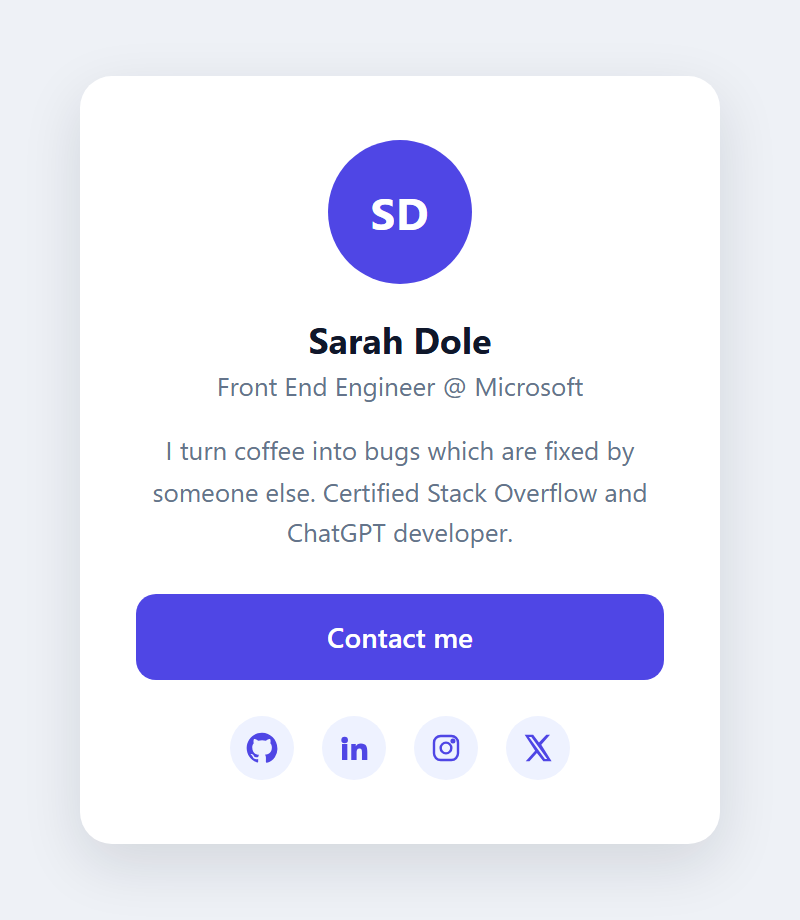
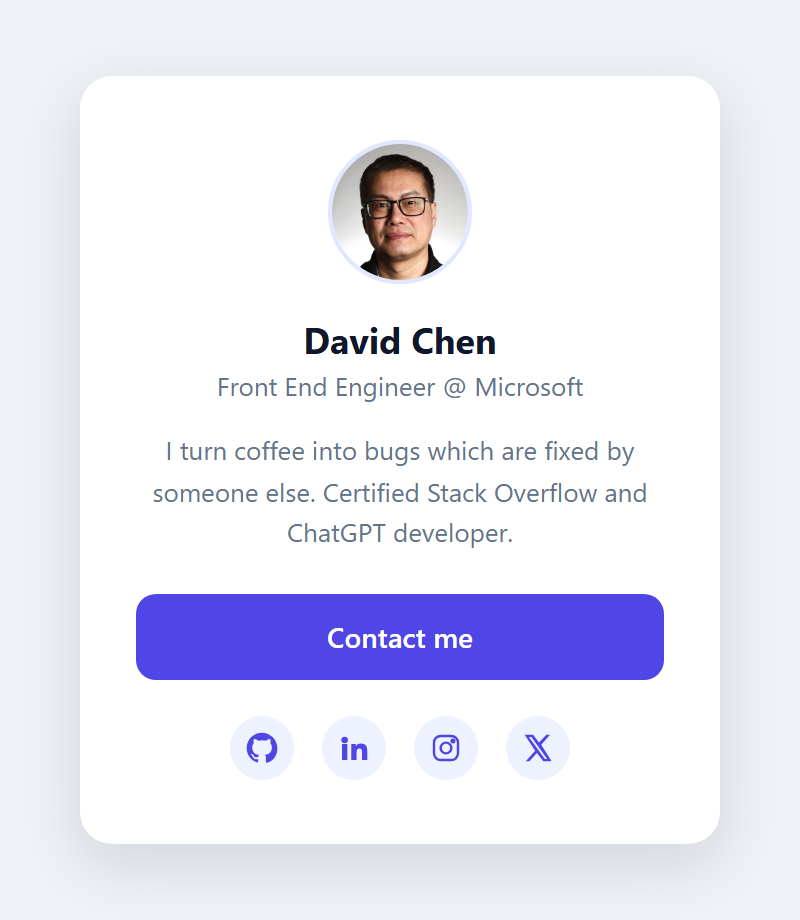
feat(53): add real profile photo to Profile Card; fix regression in link-navigation guard
Added a real profile photo to the Profile Card challenge (avatar was
plain initials before). The supplied photo was of a man but the card's
persona ("Sarah Dole") was written as a woman, and the photo reads as a
genuine individual's real headshot rather than generic stock/model
photography — confirmed the approach with the user before proceeding.
Kept the exact photo, renamed the persona to "David Chen" to match.
Photo cropped to a square headshot via sharp, self-hosted under
public/playground/battles/ like every other asset in this feature.

Also corrects a real regression in the previous fix for the challenge-
iframe navigation leak: <base href="about:blank"> stopped anchor
navigation but also broke every other relative URL in the document,
including the new photo's <img src="...">. Replaced it with a capture-
phase click listener in buildBattleDoc() that specifically
preventDefaults clicks on <a> elements — same navigation-leak
protection, without affecting how images or any other asset resolves.
The per-anchor onclick attributes from the previous fix are removed as
redundant now that the guard is centralized.

Verified via Playwright: photo loads correctly in both the compare
pane and the regenerated list-page thumbnail; all 4 social links still
cause zero iframe navigation; the 21-check auth regression suite still
passes 21/21; tsc/eslint clean.

Changed region(s): [[0.4062, 0.1522, 0.5938, 0.3043], [0.375, 0.3348, 0.625, 0.3957]]

diff --git a/scripts/seed/uiBattles.ts b/scripts/seed/uiBattles.ts
@@ -230,16 +230,16 @@ document.getElementById("signin").addEventListener("click", function () {
     targetWidth: 400,
     targetHeight: 460,
     targetHtml: `<div class="card">
-  <div class="avatar">SD</div>
-  <h1 class="name">Sarah Dole</h1>
+  <img class="avatar" src="/playground/battles/profile-card-avatar.jpg" alt="David Chen" />
+  <h1 class="name">David Chen</h1>
   <p class="role">Front End Engineer @ Microsoft</p>
   <p class="bio">I turn coffee into bugs which are fixed by someone else. Certified Stack Overflow and ChatGPT developer.</p>
   <button id="contact" class="contact">Contact me</button>
   <div class="socials">
-    <a href="#" class="social" aria-label="GitHub" onclick="event.preventDefault()"><svg viewBox="0 0 24 24" fill="currentColor"><path d="M12 .5C5.73.5.5 5.73.5 12c0 5.09 3.29 9.4 7.86 10.93.57.1.78-.25.78-.55 0-.27-.01-1.16-.02-2.1-3.2.7-3.88-1.36-3.88-1.36-.52-1.33-1.28-1.69-1.28-1.69-1.05-.72.08-.7.08-.7 1.16.08 1.77 1.19 1.77 1.19 1.03 1.76 2.7 1.25 3.36.96.1-.75.4-1.25.73-1.54-2.55-.29-5.23-1.28-5.23-5.68 0-1.25.45-2.28 1.19-3.08-.12-.29-.52-1.46.11-3.05 0 0 .97-.31 3.18 1.18a11 11 0 0 1 5.79 0c2.2-1.49 3.17-1.18 3.17-1.18.64 1.59.24 2.76.12 3.05.74.8 1.19 1.83 1.19 3.08 0 4.41-2.69 5.38-5.25 5.67.41.36.78 1.08.78 2.18 0 1.57-.01 2.84-.01 3.23 0 .3.2.66.79.55A10.51 10.51 0 0 0 23.5 12C23.5 5.73 18.27.5 12 .5Z"/></svg></a>
-    <a href="#" class="social" aria-label="LinkedIn" onclick="event.preventDefault()"><svg viewBox="0 0 24 24" fill="currentColor"><path d="M4.98 3.5a2.5 2.5 0 1 1 0 5 2.5 2.5 0 0 1 0-5ZM3 9h4v12H3V9Zm6.5 0h3.83v1.64h.05c.53-1 1.84-2.06 3.79-2.06 4.06 0 4.81 2.67 4.81 6.15V21h-4v-5.6c0-1.34-.02-3.06-1.87-3.06-1.87 0-2.16 1.46-2.16 2.96V21h-4V9Z"/></svg></a>
-    <a href="#" class="social" aria-label="Instagram" onclick="event.preventDefault()"><svg viewBox="0 0 24 24" fill="none" stroke="currentColor" stroke-width="1.8"><rect x="3" y="3" width="18" height="18" rx="5"/><circle cx="12" cy="12" r="4"/><circle cx="17.2" cy="6.8" r="1"/></svg></a>
-    <a href="#" class="social" aria-label="X" onclick="event.preventDefault()"><svg viewBox="0 0 24 24" fill="currentColor"><path d="M18.24 2H21l-6.55 7.49L22.2 22h-6.19l-4.85-6.34L5.6 22H2.83l7.02-8.02L2 2h6.35l4.38 5.79L18.24 2Zm-1.08 18.17h1.72L7.02 3.75H5.17l12 16.42Z"/></svg></a>
+    <a href="#" class="social" aria-label="GitHub"><svg viewBox="0 0 24 24" fill="currentColor"><path d="M12 .5C5.73.5.5 5.73.5 12c0 5.09 3.29 9.4 7.86 10.93.57.1.78-.25.78-.55 0-.27-.01-1.16-.02-2.1-3.2.7-3.88-1.36-3.88-1.36-.52-1.33-1.28-1.69-1.28-1.69-1.05-.72.08-.7.08-.7 1.16.08 1.77 1.19 1.77 1.19 1.03 1.76 2.7 1.25 3.36.96.1-.75.4-1.25.73-1.54-2.55-.29-5.23-1.28-5.23-5.68 0-1.25.45-2.28 1.19-3.08-.12-.29-.52-1.46.11-3.05 0 0 .97-.31 3.18 1.18a11 11 0 0 1 5.79 0c2.2-1.49 3.17-1.18 3.17-1.18.64 1.59.24 2.76.12 3.05.74.8 1.19 1.83 1.19 3.08 0 4.41-2.69 5.38-5.25 5.67.41.36.78 1.08.78 2.18 0 1.57-.01 2.84-.01 3.23 0 .3.2.66.79.55A10.51 10.51 0 0 0 23.5 12C23.5 5.73 18.27.5 12 .5Z"/></svg></a>
+    <a href="#" class="social" aria-label="LinkedIn"><svg viewBox="0 0 24 24" fill="currentColor"><path d="M4.98 3.5a2.5 2.5 0 1 1 0 5 2.5 2.5 0 0 1 0-5ZM3 9h4v12H3V9Zm6.5 0h3.83v1.64h.05c.53-1 1.84-2.06 3.79-2.06 4.06 0 4.81 2.67 4.81 6.15V21h-4v-5.6c0-1.34-.02-3.06-1.87-3.06-1.87 0-2.16 1.46-2.16 2.96V21h-4V9Z"/></svg></a>
+    <a href="#" class="social" aria-label="Instagram"><svg viewBox="0 0 24 24" fill="none" stroke="currentColor" stroke-width="1.8"><rect x="3" y="3" width="18" height="18" rx="5"/><circle cx="12" cy="12" r="4"/><circle cx="17.2" cy="6.8" r="1"/></svg></a>
+    <a href="#" class="social" aria-label="X"><svg viewBox="0 0 24 24" fill="currentColor"><path d="M18.24 2H21l-6.55 7.49L22.2 22h-6.19l-4.85-6.34L5.6 22H2.83l7.02-8.02L2 2h6.35l4.38 5.79L18.24 2Zm-1.08 18.17h1.72L7.02 3.75H5.17l12 16.42Z"/></svg></a>
   </div>
 </div>
 `,
@@ -268,14 +268,8 @@ body {
   width: 72px;
   height: 72px;
   border-radius: 50%;
-  background: #4f46e5;
-  color: #fff;
-  display: flex;
-  align-items: center;
-  justify-content: center;
-  font-size: 22px;
-  font-weight: 700;
-  letter-spacing: 0.5px;
+  object-fit: cover;
+  border: 2px solid #e0e7ff;
 }
 .name {
   margin: 16px 0 2px;
@@ -359,8 +353,8 @@ body {
     starterJs: "",
     solutionHtml: `<!-- The whole battle is one centered card -->
 <div class="card">
-  <div class="avatar">SD</div>
-  <h1 class="name">Sarah Dole</h1>
+  <img class="avatar" src="/playground/battles/profile-card-avatar.jpg" alt="David Chen" />
+  <h1 class="name">David Chen</h1>
   <p class="role">Front End Engineer @ Microsoft</p>
   <p class="bio">I turn coffee into bugs which are fixed by someone else. Certified Stack Overflow and ChatGPT developer.</p>
 
@@ -369,10 +363,10 @@ body {
 
   <!-- Inline SVGs, not icon-font glyphs — no external font/icon dependency -->
   <div class="socials">
-    <a href="#" class="social" aria-label="GitHub" onclick="event.preventDefault()"><svg viewBox="0 0 24 24" fill="currentColor"><path d="M12 .5C5.73.5.5 5.73.5 12c0 5.09 3.29 9.4 7.86 10.93.57.1.78-.25.78-.55 0-.27-.01-1.16-.02-2.1-3.2.7-3.88-1.36-3.88-1.36-.52-1.33-1.28-1.69-1.28-1.69-1.05-.72.08-.7.08-.7 1.16.08 1.77 1.19 1.77 1.19 1.03 1.76 2.7 1.25 3.36.96.1-.75.4-1.25.73-1.54-2.55-.29-5.23-1.28-5.23-5.68 0-1.25.45-2.28 1.19-3.08-.12-.29-.52-1.46.11-3.05 0 0 .97-.31 3.18 1.18a11 11 0 0 1 5.79 0c2.2-1.49 3.17-1.18 3.17-1.18.64 1.59.24 2.76.12 3.05.74.8 1.19 1.83 1.19 3.08 0 4.41-2.69 5.38-5.25 5.67.41.36.78 1.08.78 2.18 0 1.57-.01 2.84-.01 3.23 0 .3.2.66.79.55A10.51 10.51 0 0 0 23.5 12C23.5 5.73 18.27.5 12 .5Z"/></svg></a>
-    <a href="#" class="social" aria-label="LinkedIn" onclick="event.preventDefault()"><svg viewBox="0 0 24 24" fill="currentColor"><path d="M4.98 3.5a2.5 2.5 0 1 1 0 5 2.5 2.5 0 0 1 0-5ZM3 9h4v12H3V9Zm6.5 0h3.83v1.64h.05c.53-1 1.84-2.06 3.79-2.06 4.06 0 4.81 2.67 4.81 6.15V21h-4v-5.6c0-1.34-.02-3.06-1.87-3.06-1.87 0-2.16 1.46-2.16 2.96V21h-4V9Z"/></svg></a>
-    <a href="#" class="social" aria-label="Instagram" onclick="event.preventDefault()"><svg viewBox="0 0 24 24" fill="none" stroke="currentColor" stroke-width="1.8"><rect x="3" y="3" width="18" height="18" rx="5"/><circle cx="12" cy="12" r="4"/><circle cx="17.2" cy="6.8" r="1"/></svg></a>
-    <a href="#" class="social" aria-label="X" onclick="event.preventDefault()"><svg viewBox="0 0 24 24" fill="currentColor"><path d="M18.24 2H21l-6.55 7.49L22.2 22h-6.19l-4.85-6.34L5.6 22H2.83l7.02-8.02L2 2h6.35l4.38 5.79L18.24 2Zm-1.08 18.17h1.72L7.02 3.75H5.17l12 16.42Z"/></svg></a>
+    <a href="#" class="social" aria-label="GitHub"><svg viewBox="0 0 24 24" fill="currentColor"><path d="M12 .5C5.73.5.5 5.73.5 12c0 5.09 3.29 9.4 7.86 10.93.57.1.78-.25.78-.55 0-.27-.01-1.16-.02-2.1-3.2.7-3.88-1.36-3.88-1.36-.52-1.33-1.28-1.69-1.28-1.69-1.05-.72.08-.7.08-.7 1.16.08 1.77 1.19 1.77 1.19 1.03 1.76 2.7 1.25 3.36.96.1-.75.4-1.25.73-1.54-2.55-.29-5.23-1.28-5.23-5.68 0-1.25.45-2.28 1.19-3.08-.12-.29-.52-1.46.11-3.05 0 0 .97-.31 3.18 1.18a11 11 0 0 1 5.79 0c2.2-1.49 3.17-1.18 3.17-1.18.64 1.59.24 2.76.12 3.05.74.8 1.19 1.83 1.19 3.08 0 4.41-2.69 5.38-5.25 5.67.41.36.78 1.08.78 2.18 0 1.57-.01 2.84-.01 3.23 0 .3.2.66.79.55A10.51 10.51 0 0 0 23.5 12C23.5 5.73 18.27.5 12 .5Z"/></svg></a>
+    <a href="#" class="social" aria-label="LinkedIn"><svg viewBox="0 0 24 24" fill="currentColor"><path d="M4.98 3.5a2.5 2.5 0 1 1 0 5 2.5 2.5 0 0 1 0-5ZM3 9h4v12H3V9Zm6.5 0h3.83v1.64h.05c.53-1 1.84-2.06 3.79-2.06 4.06 0 4.81 2.67 4.81 6.15V21h-4v-5.6c0-1.34-.02-3.06-1.87-3.06-1.87 0-2.16 1.46-2.16 2.96V21h-4V9Z"/></svg></a>
+    <a href="#" class="social" aria-label="Instagram"><svg viewBox="0 0 24 24" fill="none" stroke="currentColor" stroke-width="1.8"><rect x="3" y="3" width="18" height="18" rx="5"/><circle cx="12" cy="12" r="4"/><circle cx="17.2" cy="6.8" r="1"/></svg></a>
+    <a href="#" class="social" aria-label="X"><svg viewBox="0 0 24 24" fill="currentColor"><path d="M18.24 2H21l-6.55 7.49L22.2 22h-6.19l-4.85-6.34L5.6 22H2.83l7.02-8.02L2 2h6.35l4.38 5.79L18.24 2Zm-1.08 18.17h1.72L7.02 3.75H5.17l12 16.42Z"/></svg></a>
   </div>
 </div>
 `,
@@ -405,14 +399,8 @@ body {
   width: 72px;
   height: 72px;
   border-radius: 50%;
-  background: #4f46e5;
-  color: #fff;
-  display: flex;
-  align-items: center;
-  justify-content: center;
-  font-size: 22px;
-  font-weight: 700;
-  letter-spacing: 0.5px;
+  object-fit: cover;
+  border: 2px solid #e0e7ff;
 }
 
 .name {

diff --git a/src/features/playground/lib/buildBattleDoc.ts b/src/features/playground/lib/buildBattleDoc.ts
@@ -15,24 +15,35 @@ export function buildBattleDoc(html: string, css: string, js: string): string {
 <html>
 <head>
 <meta charset="utf-8" />
-<!-- A srcDoc document's relative-URL base otherwise resolves against the
-     *embedding page's* real URL, not this document itself. Without this,
-     a plain in-page anchor like href="#" resolves to the real app's own
-     same-origin URL — which the sandboxed iframe (no allow-same-origin)
-     then genuinely navigates to, stripping the SameSite=Lax session
-     cookie as a cross-site request and rendering the app's real /login
-     redirect *inside* the challenge's own output iframe (confirmed via a
-     real Profile Card repro: clicking a placeholder social icon left the
-     real /login page rendered ghosted under the target overlay). Pinning
-     the base to about:blank means any relative href in challenge content
-     resolves somewhere inert instead of back into the real app. -->
-<base href="about:blank" />
 <style>
 ${css}
 </style>
 </head>
 <body>
 ${html}
+<script>
+// A srcDoc document's relative-URL base resolves against the *embedding
+// page's* real URL, not this document itself — so a plain in-page anchor
+// like href="#" resolves to the real app's own same-origin URL. The
+// sandboxed iframe (no allow-same-origin) then genuinely navigates to it,
+// stripping the SameSite=Lax session cookie as a cross-site request and
+// rendering the app's real /login redirect *inside* this iframe (confirmed
+// via a real Profile Card repro: clicking a placeholder social icon left
+// the real /login page rendered ghosted under the target overlay). A
+// <base> pinned to about:blank would stop that, but it also breaks every
+// *legitimate* relative reference in challenge content (e.g. an <img
+// src="/playground/battles/...jpg"> pointing at a real asset) — so the
+// fix is scoped to navigation specifically: capture every click, and if
+// it targets an anchor, prevent the default navigation. Anchors stay
+// real elements (keyboard-focusable, real cursor, real href for hover
+// preview) — they just never actually navigate anywhere, since nothing
+// in a UI Battle should ever link off the card itself.
+document.addEventListener("click", function (event) {
+  if (event.target instanceof Element && event.target.closest("a")) {
+    event.preventDefault();
+  }
+}, true);
+</script>
 <script>
 ${escapeForScript(js)}
 </script>

diff --git a/context/progress-tracker.md b/context/progress-tracker.md
@@ -129,6 +129,10 @@ Verified: `tsc --noEmit` + `eslint` clean; a clean production `next build`; grep
 
 **Real bug found and fixed via a user-reported repro, not caught by any of the above:** the user copied Profile Card's official solution into their own editor and clicked its social icons — the output pane then showed the real app's `/login` page rendered *inside* the challenge's own output iframe, ghosted under the target overlay. Reproduced exactly via Playwright (frame-navigation events confirmed the *output iframe itself*, not the top-level tab, navigated to `http://localhost:3000/login?callbackURL=...`) and root-caused precisely: a `srcDoc` document's relative-URL base resolves against the *embedding page's* real URL, not the iframe's own address — so the placeholder `href="#"` on each social icon resolved to the real app's own same-origin URL. Since that URL differs from the iframe's actual loaded address (`about:srcdoc`), the browser treats the click as a genuine cross-document navigation, not a same-page scroll; the sandboxed iframe (`sandbox="allow-scripts"`, no `allow-same-origin`) has an opaque origin, so that navigation is cross-site for `SameSite=Lax` cookie purposes, the session cookie gets stripped, and the server correctly redirects the now-unauthenticated request to `/login` — which then renders for real inside the output iframe. Login Card never surfaced this because it has zero anchors; Profile Card was the first challenge with real in-page links. **Fixed two ways:** (1) the actual bug — added `onclick="event.preventDefault()"` to all 4 social anchors in both `targetHtml`/`solutionHtml` (`scripts/seed/uiBattles.ts`), stopping the browser's native navigation before it ever resolves anything; (2) systemic defense-in-depth — `buildBattleDoc()` now pins `<base href="about:blank" />` in the document `<head>`, so any relative href in *any* current or future challenge's content resolves somewhere inert instead of back into the real app, even if a future challenge author forgets the `preventDefault` guard. Re-verified via the same repro script (all 4 social links, fresh solution content pulled live from the DB post-fix): zero frame navigation of any kind, card renders identically before and after every click. Re-ran the full 21-check auth regression suite afterward to confirm Login Card (no anchors, unaffected by the `<base>` addition) still passes 21/21. `tsc`/`eslint`/`next build` all clean.
 
+**Follow-up, same session: real profile photo added, and a real regression in the fix above caught and corrected.** User supplied a Pexels photo URL to replace Profile Card's "SD" initials avatar. Flagged two real concerns before using it, confirmed with the user via `AskUserQuestion` rather than assumed: (1) the photo is of a man, but the card's persona ("Sarah Dole") is written as a woman — an immediate content mismatch; (2) it reads as a genuine identifiable individual's real professional headshot, not generic stock/model photography — attaching a fabricated name/employer to a real-looking person's face is a different, more sensitive situation than a generic placeholder avatar. **User chose to keep the exact photo and rename the persona to match it instead** — the card's name changed from "Sarah Dole" to "David Chen" (all instances in `targetHtml`/`solutionHtml`), avatar markup changed from `<div class="avatar">SD</div>` to a real `<img>`, and `.avatar` CSS switched from the text-avatar treatment (flex-centered initials) to `object-fit: cover` + a light ring border. Photo cropped via `sharp` (`resize(400, 400, { fit: "cover", position: "top" })`) to a clean top-aligned square headshot crop, saved locally at `public/playground/battles/profile-card-avatar.jpg` (self-hosted, not hotlinked — matches every other asset in this feature) — the list-page/hub thumbnail screenshot was also regenerated to show the same photo.
+
+**A real regression was caught and corrected during verification, not shipped blind:** the `<base href="about:blank">` defense-in-depth added for the earlier social-link fix also broke the new `<img src="/playground/battles/profile-card-avatar.jpg">` — since `<base>` affects *every* relative URL in the document, not just anchor navigation, the avatar rendered as a broken-image icon (caught via a Playwright screenshot before telling the user it was done, not after). Root-cause fix: removed `<base>` entirely and replaced it with a capture-phase `document.addEventListener("click", ..., true)` script inside `buildBattleDoc()` that calls `event.preventDefault()` specifically on any click that targets an anchor — this blocks the exact same navigation-leak bug for any current/future challenge without touching how any other relative URL (images, future assets) resolves. The per-anchor `onclick="event.preventDefault()"` attributes added to Profile Card's seed content in the round above were removed as redundant once the global guard existed. Re-verified via the same Playwright repro (paste solution, click all 4 social links): zero iframe navigation, avatar image loads correctly, and the full 21-check regression suite still passes 21/21.
+
 **Next:** 54 Experiments Gallery, per `build-plan.md`'s Phase 12.
 
 ---

diff --git a/context/ui-registry.md b/context/ui-registry.md
@@ -931,4 +931,5 @@ See `progress-tracker.md`'s Feature 53 entry for the complete narrative. Summary
 - **`BattleCard`/`BattleListCard`**'s target-image `alt` text is real and descriptive (was `alt=""`).
 - **First real browser-based login/logged-out regression pass for this feature** (no OAuth automatable in this environment — used Better-Auth's own `testUtils` plugin to mint a real DB-backed session for a throwaway user, same as the Feature-31-completion-tracking fix's precedent). 21/21 checks passed across both auth states; a dedicated 8-check cross-battle test (real `Link`-click soft navigation, not `page.goto`, since a hard navigation would reset the JS realm and defeat the point) confirmed the Monaco slug-scoping fix holds across genuine battle-to-battle navigation, not just within one challenge.
 - **New pilot challenge #2: `profile-card-recreate`** ("Profile Card") — added specifically because the Monaco cross-battle fix couldn't be exercised end-to-end with only one seeded challenge. Same seed-file shape as `login-card-recreate` (`scripts/seed/uiBattles.ts`): a centered card with an initials avatar ("SD" — not a real photo, matching this app's own letter-avatar convention), name/role/bio, a "Contact me" button with real click feedback, and 4 inline-SVG social icons (GitHub/LinkedIn/Instagram/X). Built from a user-supplied reference screenshot; deliberately did **not** carry over the reference's "+100 rep"/"Starter" reward-chrome styling — same "never show fabricated data, no scoring system in Playground v1" rule already established earlier in this feature.
-- **Real bug found via user repro: challenge content with real anchors could leak the app's own `/login` page into the output iframe.** `srcDoc` documents resolve relative URLs against the *embedding page's* URL, not their own — so a placeholder `href="#"` resolved same-origin, the sandboxed iframe's resulting navigation stripped the `SameSite=Lax` session cookie as cross-site, and the server's own `redirect('/login?...')` rendered for real inside the output iframe. Login Card never hit this (no anchors); Profile Card was the first challenge with real links. Fixed at both levels: `onclick="event.preventDefault()"` added to Profile Card's 4 social anchors (the actual fix), and `buildBattleDoc()` now sets `<base href="about:blank" />` in its `<head>` (systemic guard for every current/future challenge, not just this one).
+- **Real bug found via user repro: challenge content with real anchors could leak the app's own `/login` page into the output iframe.** `srcDoc` documents resolve relative URLs against the *embedding page's* URL, not their own — so a placeholder `href="#"` resolved same-origin, the sandboxed iframe's resulting navigation stripped the `SameSite=Lax` session cookie as cross-site, and the server's own `redirect('/login?...')` rendered for real inside the output iframe. Login Card never hit this (no anchors); Profile Card was the first challenge with real links. **Final fix** (revised after an initial version regressed — see below): `buildBattleDoc()` injects a capture-phase click listener (`document.addEventListener("click", fn, true)`) that calls `event.preventDefault()` on any click targeting an `<a>`, for every challenge's document. An earlier version instead pinned `<base href="about:blank" />` in the `<head>` — that also stopped the leak, but it affects *every* relative URL in the document, not just anchor navigation, so it broke the profile photo's `<img src="/playground/battles/...jpg">` (rendered as a broken-image icon, caught before shipping). The click-listener approach blocks the exact same navigation without touching how any other relative reference resolves.
+- **Profile Card's avatar is now a real photo, not initials.** User-supplied Pexels photo, cropped to a square headshot via `sharp` (`resize(400, 400, { fit: "cover", position: "top" })`), self-hosted at `public/playground/battles/profile-card-avatar.jpg` (not hotlinked). The persona's name changed from "Sarah Dole" to "David Chen" — the supplied photo was of a man and read as a genuine individual's real headshot rather than generic stock/model photography; confirmed with the user via `AskUserQuestion` before proceeding, who chose to keep the exact photo and rename the persona to match rather than swap the photo. `.avatar` CSS changed from a flex-centered initials treatment to `object-fit: cover` + a light ring border. The list-page/hub thumbnail screenshot was regenerated to match.
